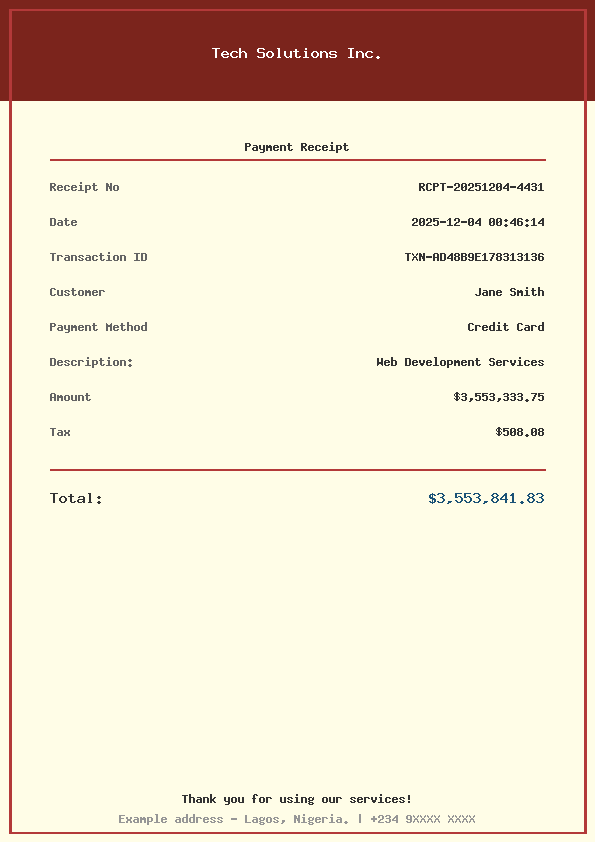
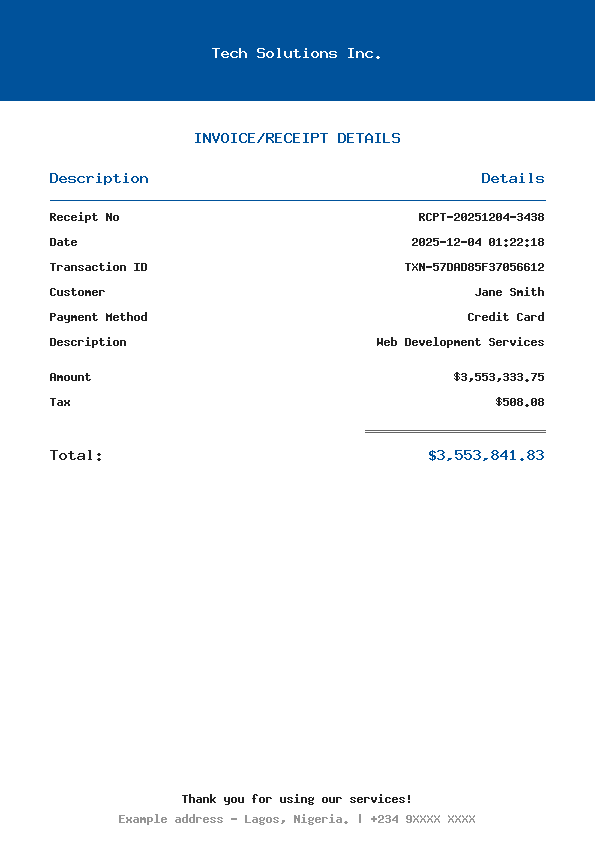
update

diff --git a/src/ReceiptGenerator.php b/src/ReceiptGenerator.php
@@ -641,6 +641,17 @@ class ReceiptGenerator {
             'right', 
             true
         );
+
+        // Status badge - only show for larger receipts, not for thermal
+        if($this->badge === true && $width > 300 && !$this->isThermal()){
+            $this->drawStatusBadge(
+                $image, 
+                $width - $rightPadding, 
+                $rightPadding + $headerHeight + 30, 
+                $data['status'], 
+                $colors
+            );
+        }
         
         $this->footer($image, $colors);
     }
@@ -781,7 +792,7 @@ class ReceiptGenerator {
         
         // Receipt details in formal table
         $y = $headerHeight + ($this->isThermal() ? 30 : 30);
-        $tablePadding = $this->isThermal() ? 25 : 100;
+        $tablePadding = $this->isThermal() ? 25 : 50;
         
         // Table header
         $this->addText(
@@ -843,11 +854,14 @@ class ReceiptGenerator {
         // Total with double underline
         $y += $this->isThermal() ? 10 : 10;
         $totalLeft = $this->isThermal() ? $width - 125 : $width - 200;
-        $totalRight = $this->isThermal() ? $width - 25 : $width - 100;
+        $totalRight = $this->isThermal() ? $width - 25 : $width - 50;
         $amount = $this->format($data['total_amount']);
 
         // divide 
         $whole = intdiv(strlen($amount), 5);
+        dump(
+            $whole
+        );
         for ($i=0; $i < $whole; $i++) {
             if($whole === 1){
                 $totalLeft = $totalLeft + 20;
@@ -856,7 +870,6 @@ class ReceiptGenerator {
             } else{
                 $totalLeft = $totalLeft - 26;
             }
-            // $totalLeft = $whole === 1 ? $totalLeft + 20 : $totalLeft - 15;
         }
 
         imageline($image, $totalLeft, $y, $totalRight, $y, $colors['dark_gray']);
@@ -1017,7 +1030,7 @@ class ReceiptGenerator {
         $this->drawRoundedRect($image, $x, $y, $textWidth, $textHeight, 5, $statusColor);
 
         // Add border
-        imagerectangle($image, $x, $y, $x + $textWidth, $y + $textHeight, $colors['dark_gray']);
+        imagerectangle($image, $x, $y, $x + $textWidth, $y + $textHeight, $colors['light_gray']);
 
         $this->addText(
             $image, 
@@ -1030,7 +1043,7 @@ class ReceiptGenerator {
             true
         );
         
-        $this->addText($image, $status, $x + ($textWidth/2), $y + 5, 10, $colors['white'], 'center', true);
+        $this->addText($image, $status, $x + ($textWidth/2), $y + 6, 10, $colors['white'], 'center', true);
     }
     
     /**

diff --git a/tests/invoice.php b/tests/invoice.php
@@ -7,7 +7,6 @@ use Tamedevelopers\Support\ReceiptGenerator;
 require_once __DIR__ . '/../vendor/autoload.php';
 
 
-
 $receipt = new ReceiptGenerator();
 
 // Set basic data
@@ -23,8 +22,9 @@ $receipt->setData([
 
 // Choose design and format
 $receipt->setPaperSize('a4') //55mm|80mm|a4|a5|letter|legal|square
-        ->setDesign('classic') // ['modern', 'classic', 'minimal', 'corporate', 'invoice']
+        ->setDesign('corporate') // ['modern', 'classic', 'minimal', 'corporate', 'invoice']
         ->generate(false)
+        ->badge(true)
         // ->setFontFiles()
         ->setOutputFormat('png');
 

diff --git a/README.md b/README.md
@@ -146,6 +146,18 @@ Support Package For PHP, Laravel and PHP Frameworks
     * [isDirectory](#file-isdirectory) 
     * [isFile](#file-isfile) 
     * [isFileType](#file-isfiletype)
+* [ReceiptGenerator](#ReceiptGenerator)
+    * [Usage](#ReceiptGenerator-usage)
+    * [setData](#ReceiptGenerator-setData)
+    * [setDPI](#ReceiptGenerator-setDPI)
+    * [badge](#ReceiptGenerator-badge)
+    * [generate](#ReceiptGenerator-generate)
+    * [setDesign](#ReceiptGenerator-setDesign)
+    * [setPaperSize](#ReceiptGenerator-setPaperSize)
+    * [setFontFiles](#ReceiptGenerator-setFontFiles)
+    * [setOutputFormat](#ReceiptGenerator-setOutputFormat)
+    * [outputToBrowser](#ReceiptGenerator-outputToBrowser)
+    * [saveToFile](#ReceiptGenerator-saveToFile)
 * [Collection](#collection)
     * [Usage](#collection-usage)
     * [has](#collection-has)
